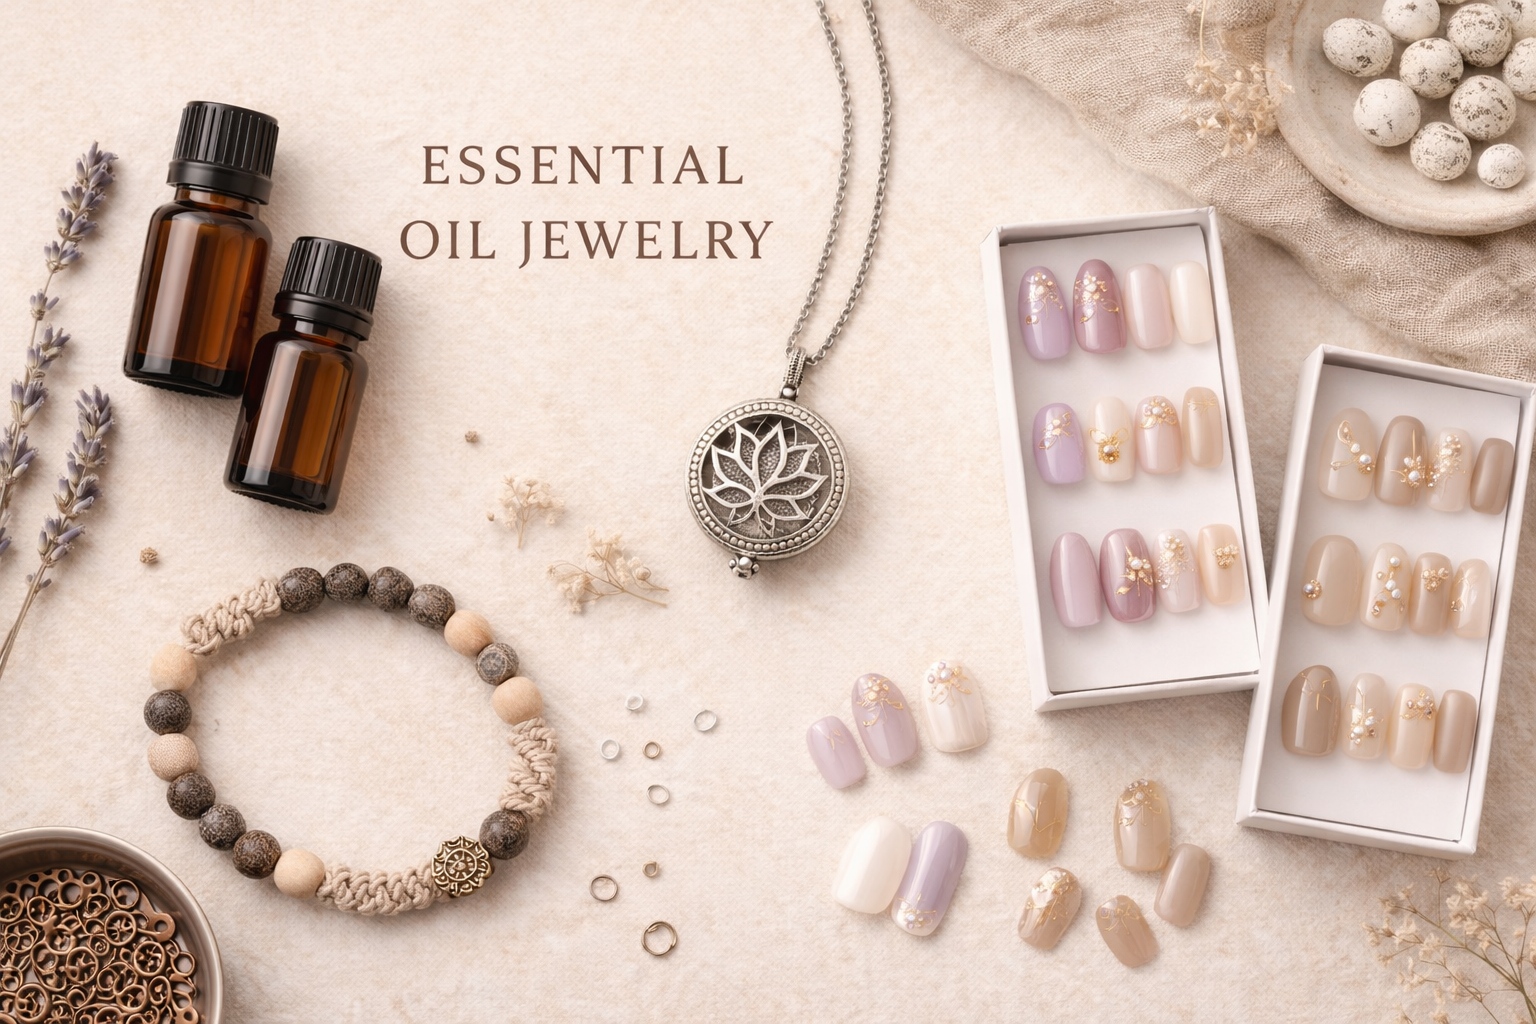
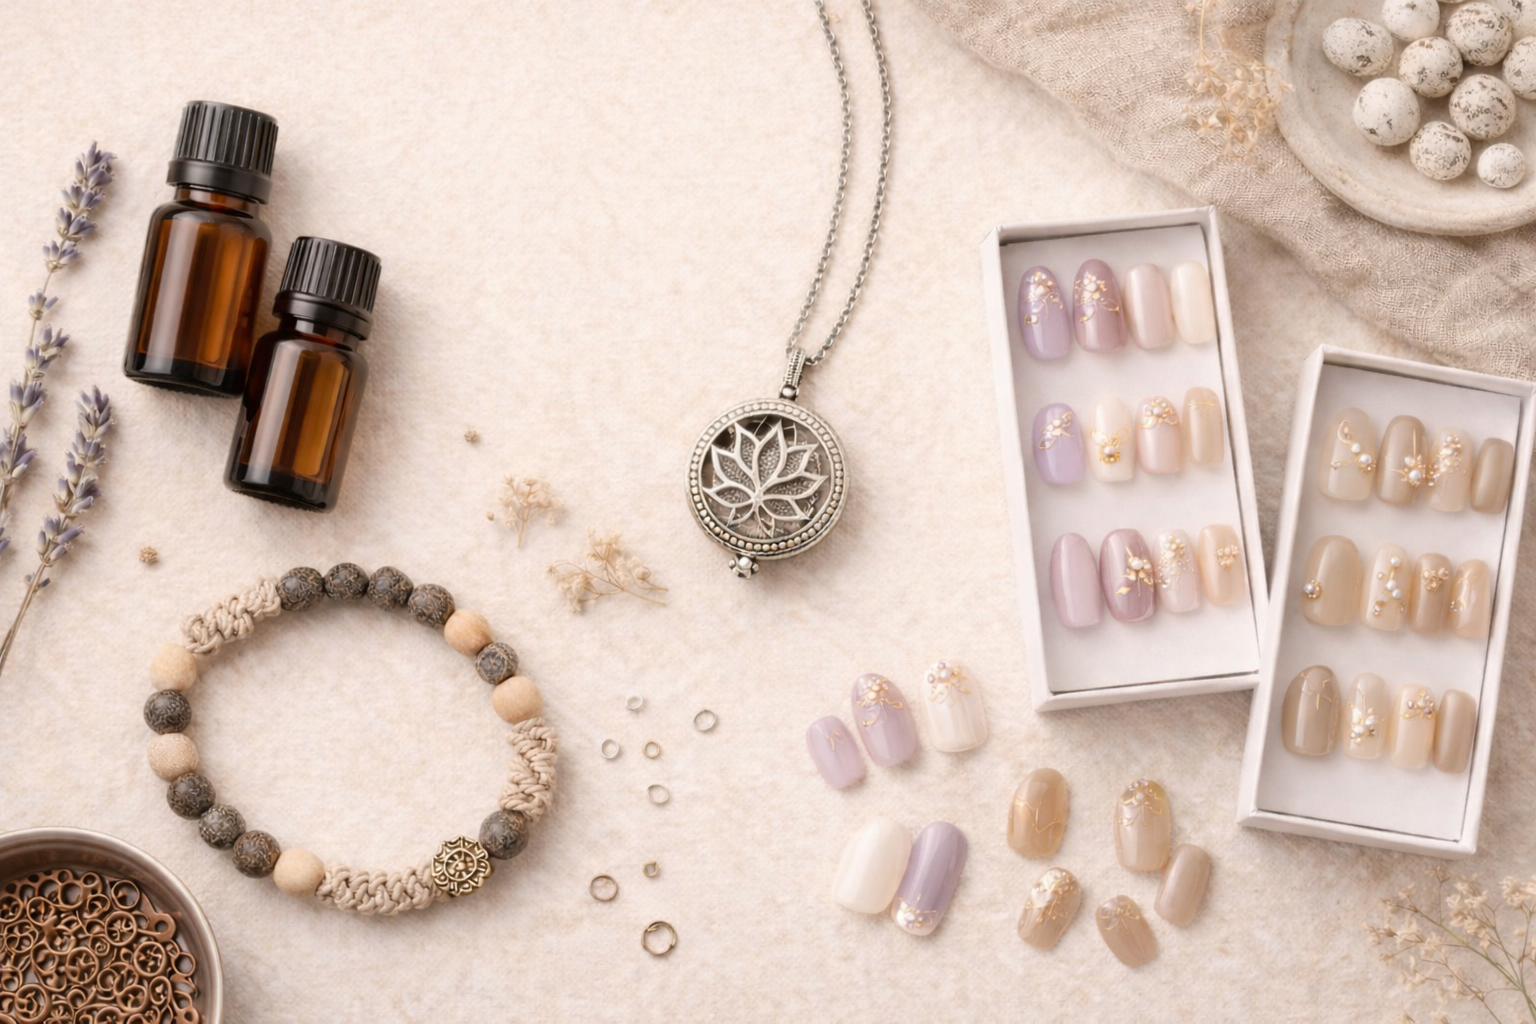
Moved the homepage words

diff --git a/frontend/project_css.css b/frontend/project_css.css
@@ -2,11 +2,15 @@
 html, body {
     height: 100%;
     margin: 0;
+    padding: 0;
     text-align: center;
     font-family: Georgia, serif;
-    font-size: 18px;               
+    font-size: 18px;
     letter-spacing: 2px;
-    margin: 0;
+}
+
+html {
+    background-color: #F2EBDD;
 }
 
 body {
@@ -15,6 +19,11 @@ body {
     font-family: Arial, sans-serif;
     background-color: #F2EBDD;
     color: #5A4A3F;
+    min-width: 100%;
+}
+
+section {
+    margin: 0;
 }
 
 /* HEADER / BRAND*/
@@ -86,13 +95,18 @@ nav ul li a:hover {
 /* HERO SECTION- BACKGROUND IMAGE -NAMED AS "BG1"*/
 .hero {
     position: relative;
-    text-align: center;
-    padding: 140px 20px;
+    flex: 1;
+    width: 100%;
+    margin: 0;
+    padding: 20px;
+    min-height: 65vh;
     color: white;
+    background-color: #F2EBDD;
     background-image: url("images/BG1.png");
     background-size: cover;
     background-position: center;
     background-repeat: no-repeat;
+    overflow: hidden;
 }
 
 /* Dark overlay to make text readable */
@@ -104,31 +118,39 @@ nav ul li a:hover {
     right: 0;
     bottom: 0;
     background: rgba(0, 0, 0, 0.45);
+    pointer-events: none;
+}
+
+/* Content block positioned below the pendant */
+.hero-content {
+    position: absolute;
+    left: 50%;
+    top: 62%;
+    transform: translate(-50%, 0);
+    width: 100%;
+    max-width: 680px;
+    padding: 0 20px;
+    box-sizing: border-box;
+    z-index: 1;
 }
 
 /* Keep text and button above overlay */
-.hero h2,
-.hero p,
-.hero button {
+.hero-content p,
+.hero-content button {
     position: relative;
 }
 
-.hero h2 {
-    font-size: 30px;
-    margin-bottom: 15px;
-}
-
-.hero p {  
+.hero-content p {
     font-size: 25px;
-    font-weight: 300;     
+    font-weight: 300;
     letter-spacing: 0.5px;
     line-height: 1.8;
     max-width: 680px;
-    margin: 0 auto 30px;
+    margin: 0 auto 20px;
 }
 
 /* Hero button styling */
-.hero button {
+.hero-content button {
     padding: 20px 30px;
     background-color: #cf9f24;
     border: none;
@@ -136,11 +158,23 @@ nav ul li a:hover {
     cursor: pointer;
     border-radius: 10px;
     transition: 0.3s;
-    margin-top: 50px;
+    margin-top: 10px;
 }
 
-.hero button:hover {
+.hero-content button:hover {
     background-color: #B89A4D;
+}
+
+@media (max-width: 768px) {
+    .hero {
+        min-height: 55vh;
+    }
+    .hero-content {
+        top: 58%;
+    }
+    .hero-content p {
+        font-size: 20px;
+    }
 }
 
 /* PRODUCTS SECTION DESIGN*/

diff --git a/frontend/index.html b/frontend/index.html
@@ -29,13 +29,13 @@
     </nav>
 
     <section class="hero">
-        <h1>
-        <p>
-            Our essential oil jewelry and handmade creations are designed
-            to inspire confidence, calm, and elegance.
-        </p>
-        </h1>
-        <button>Shop Now</button> <!--  Add to Cart button-->
+        <div class="hero-content">
+            <p>
+                Our essential oil jewelry and handmade creations are designed
+                to inspire confidence, calm, and elegance.
+            </p>
+            <button>Shop Now</button>
+        </div>
     </section>
 
     <footer> <!--  Add Footer-->
